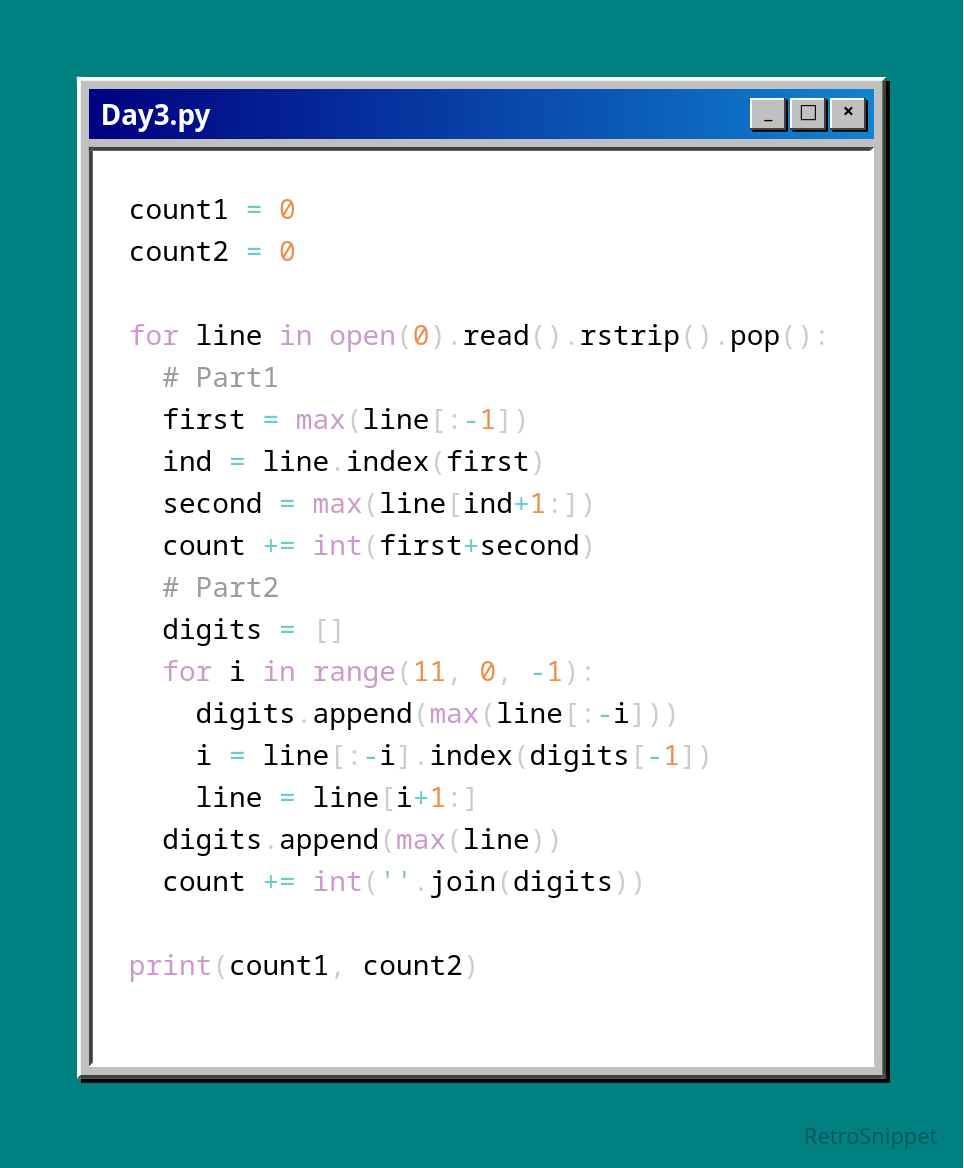
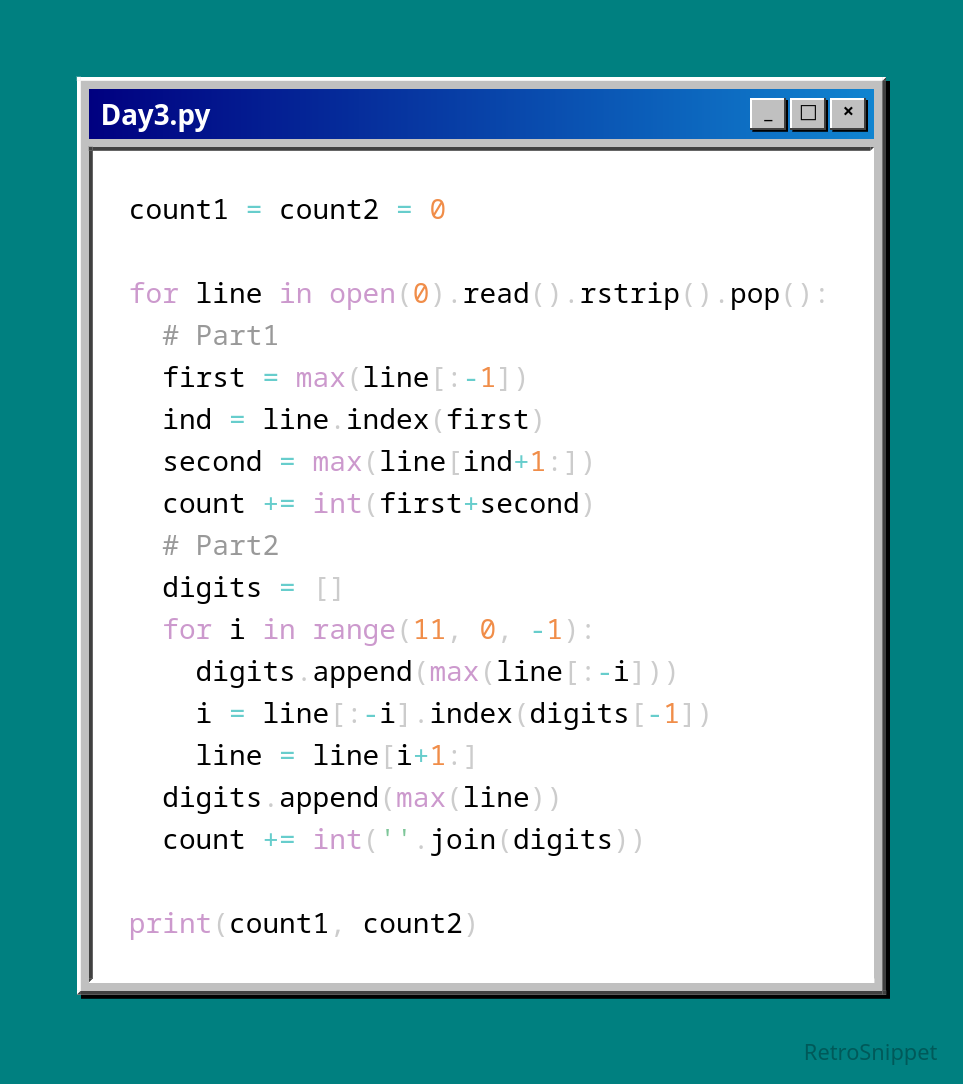
Update code snippets to use my new tool, RetroSnippet

diff --git a/02/clean.py b/02/clean.py
@@ -1,0 +1,14 @@
+count1 = count2 = 0
+
+for i in open(0).read().rstrip().split(','):
+  i1, i2 = i.split('-')
+  for j in range(int(i1), int(i2)+1):
+    s = str(j)
+    if s[:len(s)//2] == s[len(s)//2:]:
+      count1 += j
+    for k in range(1, len(s)//2+1):
+      if s.replace(s[:k], '') == '':
+        count2 += j
+        break
+
+print(count1, count2)

diff --git a/01/clean.py b/01/clean.py
@@ -1,0 +1,10 @@
+dial = 50
+count1 = count2 = 0
+
+for line in open(0).read().split():
+  turn = dial + (1 if line[0] == 'R' else -1) * int(line[1:])
+  count2 += abs(turn) // 100 + (dial > 0 and turn <= 0)
+  dial = turn % 100
+  count1 += (dial == 0)
+
+print(count1, count2)

diff --git a/03/clean.py b/03/clean.py
@@ -1,5 +1,4 @@
-count1 = 0
-count2 = 0
+count1 = count2 = 0
 
 for line in open(0).read().rstrip().pop():
   # Part1
